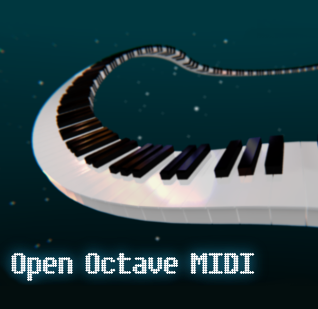
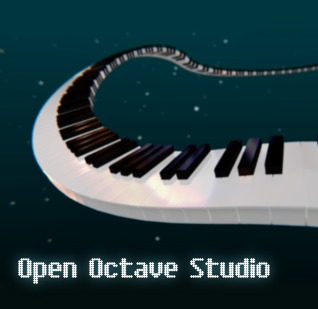
More work on porting OOMidi name to OOStudio

Changed region(s): [[0.0, 0.7864, 0.566, 0.932], [0.5943, 0.7864, 0.8774, 0.932]]

diff --git a/oom/widgets/plugingui.cpp b/oom/widgets/plugingui.cpp
@@ -39,7 +39,7 @@ PluginGui::PluginGui(BasePlugin* p)
   plugin(p)
 {
     QString title;
-    title += "OOMidi: ";
+    title += "OOStudio: ";
     title += plugin->name();
     if (plugin->track() && plugin->track()->name().isEmpty() == false)
     {
@@ -375,7 +375,7 @@ void PluginGui::load()
     s += "/";
 
     QString fn = getOpenFileName(s, preset_file_pattern,
-                                 this, tr("OOMidi: load preset"), 0);
+                                 this, tr("OOStudio: load preset"), 0);
     if (fn.isEmpty())
         return;
     bool popenFlag;
@@ -402,7 +402,7 @@ void PluginGui::load()
 
                 if (plugin->readConfiguration(xml, true))
                 {
-                    QMessageBox::critical(this, QString("OOMidi"),
+                    QMessageBox::critical(this, QString("OOStudio"),
                                           tr("Error reading preset. Might not be right type for this plugin"));
                     goto ende;
                 }
@@ -443,7 +443,7 @@ void PluginGui::save()
 
     //QString fn = getSaveFileName(s, preset_file_pattern, this,
     QString fn = getSaveFileName(s, preset_file_save_pattern, this,
-                                 tr("OOMidi: save preset"));
+                                 tr("OOStudio: save preset"));
     if (fn.isEmpty())
         return;
     bool popenFlag;

diff --git a/oom/plugin_lv2.cpp b/oom/plugin_lv2.cpp
@@ -914,7 +914,7 @@ bool Lv2Plugin::init(QString filename, QString label)
                                                 ui.nativeWidget = new Lv2QWidget(this);
 
                                             QString title;
-                                            title += "OOMidi: ";
+                                            title += "OOStudio: ";
                                             title += m_name;
                                             title += " (GUI)";
                                             if (m_track && m_track->name().isEmpty() == false)
@@ -1479,7 +1479,7 @@ void Lv2Plugin::showNativeGui(bool yesno)
         if (ui.handle && ui.widget)
         {
             QString title;
-            title += "OOMidi: ";
+            title += "OOStudio: ";
             title += m_name;
             title += " (GUI)";
             if (m_track && m_track->name().isEmpty() == false)

diff --git a/oom/plugin_vst.cpp b/oom/plugin_vst.cpp
@@ -759,7 +759,7 @@ void VstPlugin::showNativeGui(bool yesno)
         }
 
         QString title;
-        title += "OOMidi: ";
+        title += "OOStudio: ";
         title += m_name;
         title += " (GUI)";
         if (m_track && m_track->name().isEmpty() == false)
